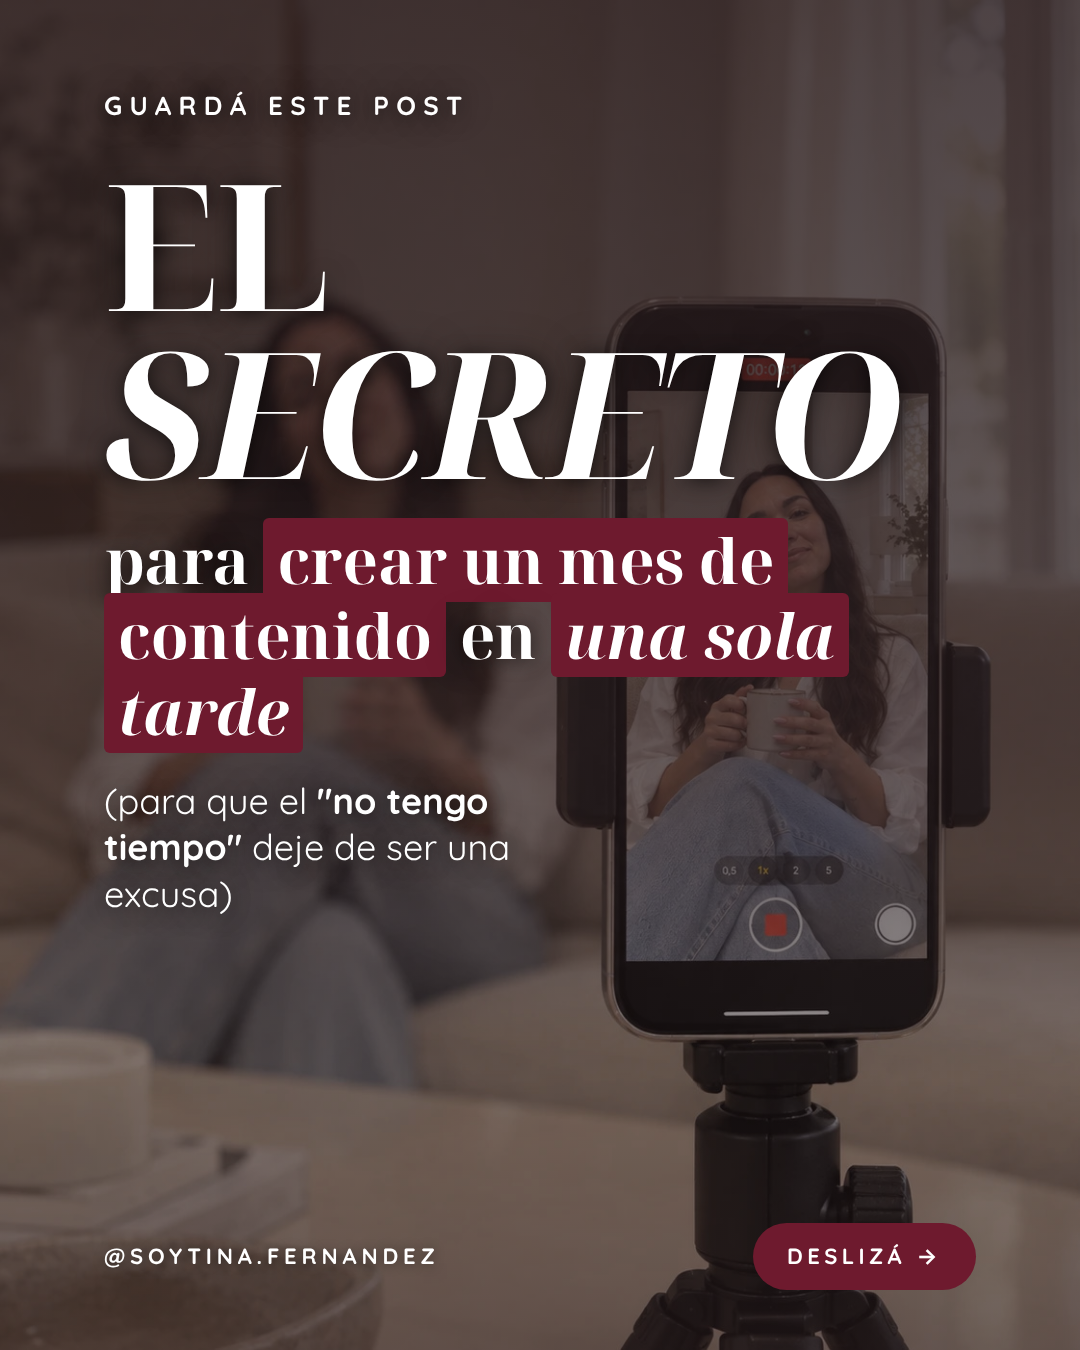
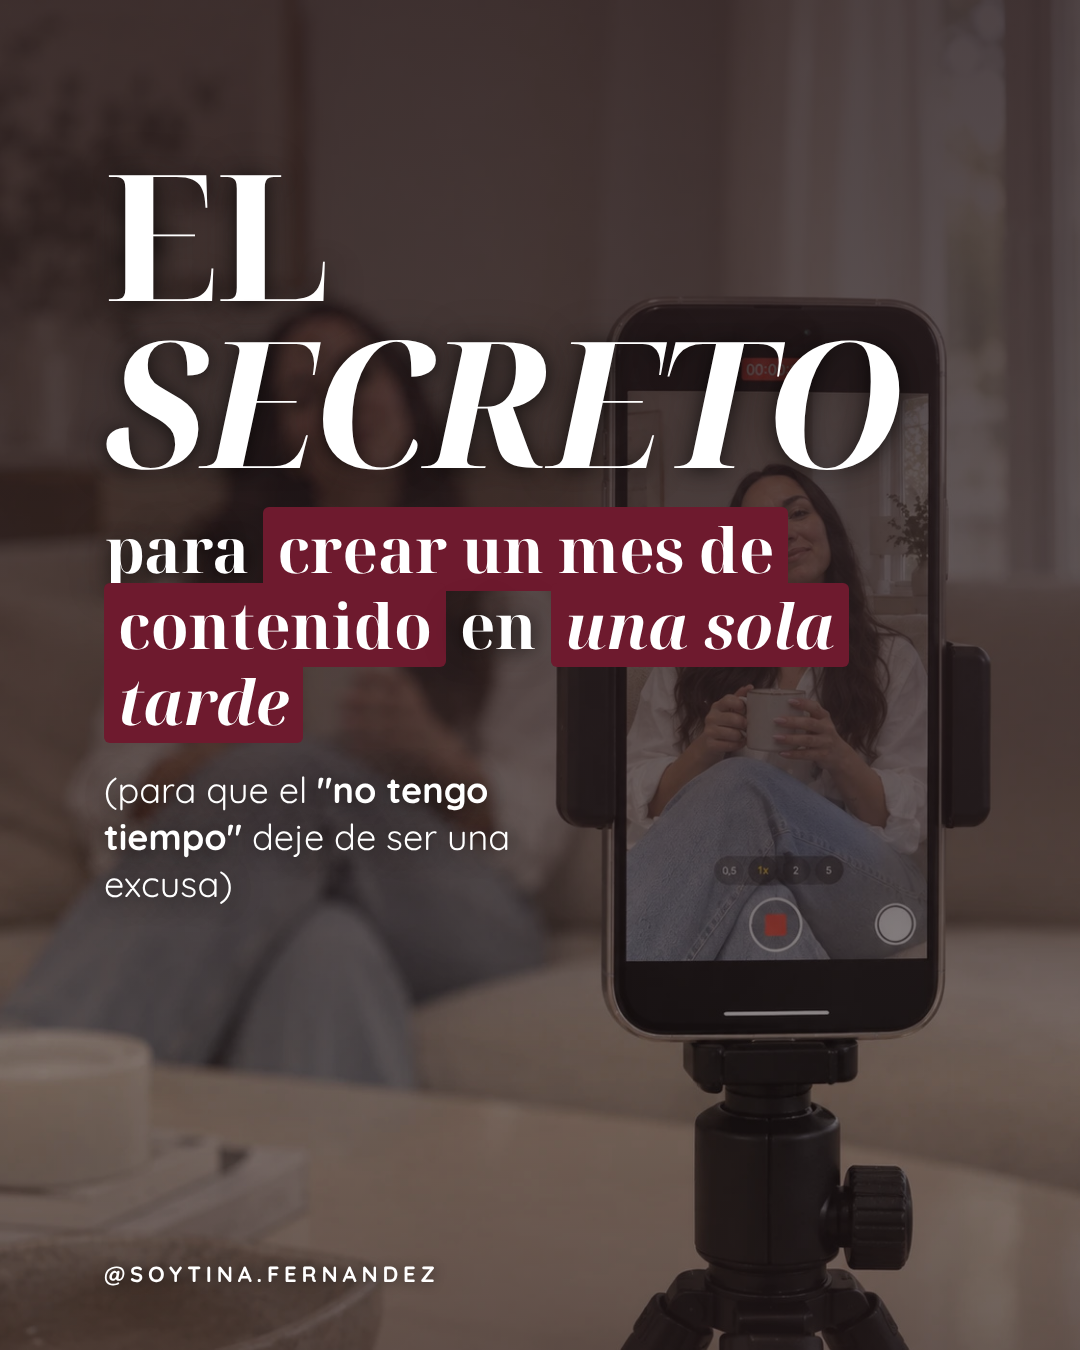
Carrusel 01: portada sin kicker ni Deslizá
Claude-Session: https://claude.ai/code/session_01646vauRcMy6cepeBrdUKa1

diff --git a/carruseles/01-mes-de-contenido-en-una-tarde/slides.html b/carruseles/01-mes-de-contenido-en-una-tarde/slides.html
@@ -63,7 +63,7 @@
   .rosa { background: var(--suave); }
 
   /* Portada con foto */
-  .portada { justify-content: flex-start; padding-top: 88px; }
+  .portada { justify-content: flex-start; padding-top: 150px; }
   .foto { position: absolute; inset: 0; z-index: 0; }
   .foto img { width: 100%; height: 100%; object-fit: cover; }
   /* Foto a sangre oscurecida, letras claras con sombra */
@@ -158,12 +158,11 @@
 <section class="slide portada">
   <div class="foto"><img src="../fotos/grabando-celular-sillon.jpg" alt=""></div>
   <div class="contenido">
-    <p class="kicker">Guardá este post</p>
     <h1 class="secreto">El <mark>secreto</mark></h1>
     <p class="promesa">para <span class="resaltado">crear un mes de contenido</span> en <mark>una sola tarde</mark></p>
     <p class="excusa">(para que el <b>"no tengo tiempo"</b> deje de ser una excusa)</p>
   </div>
-  <div class="pie"><span>@soytina.fernandez</span><span class="desliza">Deslizá →</span></div>
+  <div class="pie"><span>@soytina.fernandez</span></div>
 </section>
 
 <!-- 2 · El sueño -->

diff --git a/carruseles/01-mes-de-contenido-en-una-tarde/carrusel.md b/carruseles/01-mes-de-contenido-en-una-tarde/carrusel.md
@@ -8,7 +8,7 @@
 
 | # | Rol | Layout | Título | Texto | Puente (abre la siguiente) |
 |---|-----|--------|--------|-------|----------------------------|
-| 1 | Hook aspiracional | portada con foto abajo | EL SECRETO (gigante) para crear un mes de contenido en una sola tarde | GUARDÁ ESTE POST · (para que el "no tengo tiempo" deje de ser una excusa) · Deslizá → | — |
+| 1 | Hook aspiracional | portada con foto abajo | EL SECRETO (gigante) para crear un mes de contenido en una sola tarde | (para que el "no tengo tiempo" deje de ser una excusa) — sin kicker ni "Deslizá" | — |
 | 2 | El sueño | frase grande, crema | Tu mes de contenido, listo. | Sin pensar qué subir cada día. | Pero hay un detalle… → |
 | 3 | El dolor | frase grande, bordó | Hoy improvisás todos los días. | Y encima, nadie te compra. | ¿Sabés por qué? → |
 | 4 | La solución | frase grande, rosa | El secreto: hacer todo junto. | No te falta tiempo. Hacés todo de a uno. | Son 4 pasos. El primero es el más fácil → |

diff --git a/carruseles/marca.md b/carruseles/marca.md
@@ -43,6 +43,7 @@
     con letras oscuras.)
   - Portada fuerte: palabra gancho GIGANTE en mayúsculas (ej. "EL SECRETO", en bordó cursiva) + promesa en serif
     + bajada chica que rompe la excusa ("para que el 'no tengo tiempo' deje de ser una excusa").
+  - Portada SIN "Guardá este post" ni "Deslizá →": solo hook + firma.
   - Flechas de continuidad ("Así →") siempre hacia la DERECHA (se desliza al costado), nunca hacia abajo.
   - Aprobado con este estilo: carrusel 01 (mes de contenido en una tarde).
   - Alternar fondos crema / bordó (dolor) / rosa (solución, resumen) funciona.
